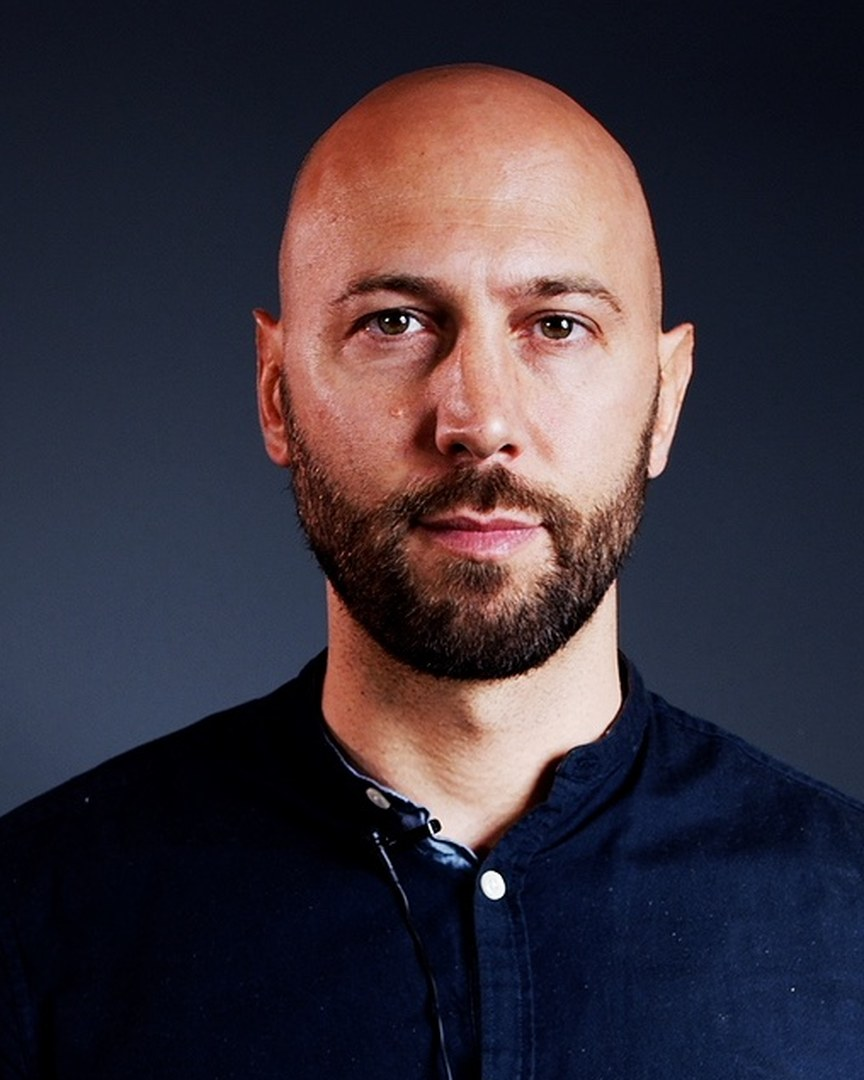
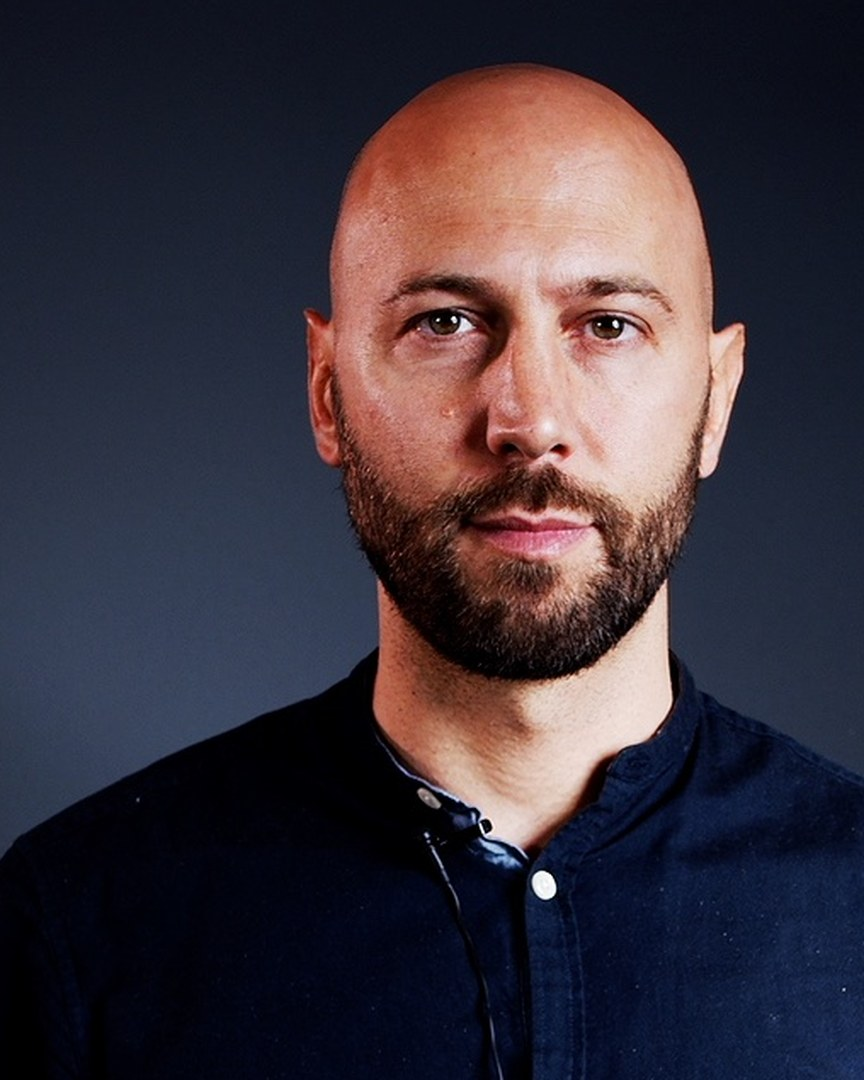
Stage splash: 3 activation paths + diagnostics; Nick photo re-centered
- Cmd/Ctrl+Shift+P (e.code KeyP, layout-independent)
- Type sequence "nana" (no modifiers, browser-shortcut-proof)
- URL hash #stage
- 500ms grace period to prevent self-dismiss; modifier-only keys ignored
- Console logs for diagnostics
- Nick photo: shifted crop window 30px left in source so face centers in frame

diff --git a/script.js b/script.js
@@ -28,33 +28,70 @@
     whenReady(init);
   });
 
-  /* --- Stage splash (pitch mode): Ctrl/Cmd+Shift+P to activate; scroll/click/any key to dismiss --- */
+  /* --- Stage splash (pitch mode). Activate: Cmd/Ctrl+Shift+P, type "nana", or #stage hash. Dismiss: scroll/click/any key. --- */
   (function stageSplash() {
     const el = document.querySelector('.stage-splash');
-    if (!el) return;
+    if (!el) { console.warn('[stage-splash] element not found'); return; }
     const isActive = () => el.classList.contains('is-active');
+    let activatedAt = 0;
+    const inGracePeriod = () => Date.now() - activatedAt < 500;
+
     function activate() {
       if (isActive()) return;
+      activatedAt = Date.now();
       el.classList.add('is-active');
       document.body.style.overflow = 'hidden';
+      console.log('[stage-splash] activated');
     }
     function dismiss() {
       if (!isActive()) return;
       el.classList.remove('is-active');
       document.body.style.overflow = '';
+      console.log('[stage-splash] dismissed');
     }
+
+    let buffer = '';
+    let bufferTimer = null;
+    const MODIFIER_KEYS = new Set(['Shift', 'Meta', 'Control', 'Alt', 'CapsLock']);
+
     window.addEventListener('keydown', (e) => {
-      const mod = e.ctrlKey || e.metaKey;
-      if (mod && e.shiftKey && (e.key === 'P' || e.key === 'p')) {
+      const ae = document.activeElement;
+      if (ae && /^(INPUT|TEXTAREA|SELECT)$/i.test(ae.tagName)) return;
+
+      // Activation 1: Cmd/Ctrl+Shift+P (e.code is layout-independent)
+      if ((e.ctrlKey || e.metaKey) && e.shiftKey && e.code === 'KeyP') {
         e.preventDefault();
         activate();
         return;
       }
-      if (isActive()) dismiss();
+
+      // While active: any non-modifier key dismisses (after grace period)
+      if (isActive()) {
+        if (inGracePeriod()) return;
+        if (!MODIFIER_KEYS.has(e.key)) dismiss();
+        return;
+      }
+
+      // Activation 2: type sequence "nana" (no modifiers, single char keys)
+      if (e.ctrlKey || e.metaKey || e.altKey) return;
+      if (e.key.length !== 1) return;
+      buffer = (buffer + e.key.toLowerCase()).slice(-4);
+      if (buffer === 'nana') {
+        activate();
+        buffer = '';
+      }
+      clearTimeout(bufferTimer);
+      bufferTimer = setTimeout(() => { buffer = ''; }, 1500);
     });
-    window.addEventListener('wheel',      () => { if (isActive()) dismiss(); }, { passive: true });
-    window.addEventListener('click',      () => { if (isActive()) dismiss(); });
-    window.addEventListener('touchstart', () => { if (isActive()) dismiss(); }, { passive: true });
+
+    window.addEventListener('wheel',      () => { if (isActive() && !inGracePeriod()) dismiss(); }, { passive: true });
+    window.addEventListener('click',      () => { if (isActive() && !inGracePeriod()) dismiss(); });
+    window.addEventListener('touchstart', () => { if (isActive() && !inGracePeriod()) dismiss(); }, { passive: true });
+
+    // Activation 3: URL hash #stage
+    if (window.location.hash === '#stage') activate();
+
+    console.log('[stage-splash] ready. Activate: Cmd/Ctrl+Shift+P · type "nana" · or visit #stage');
   })();
 
   function init() {
